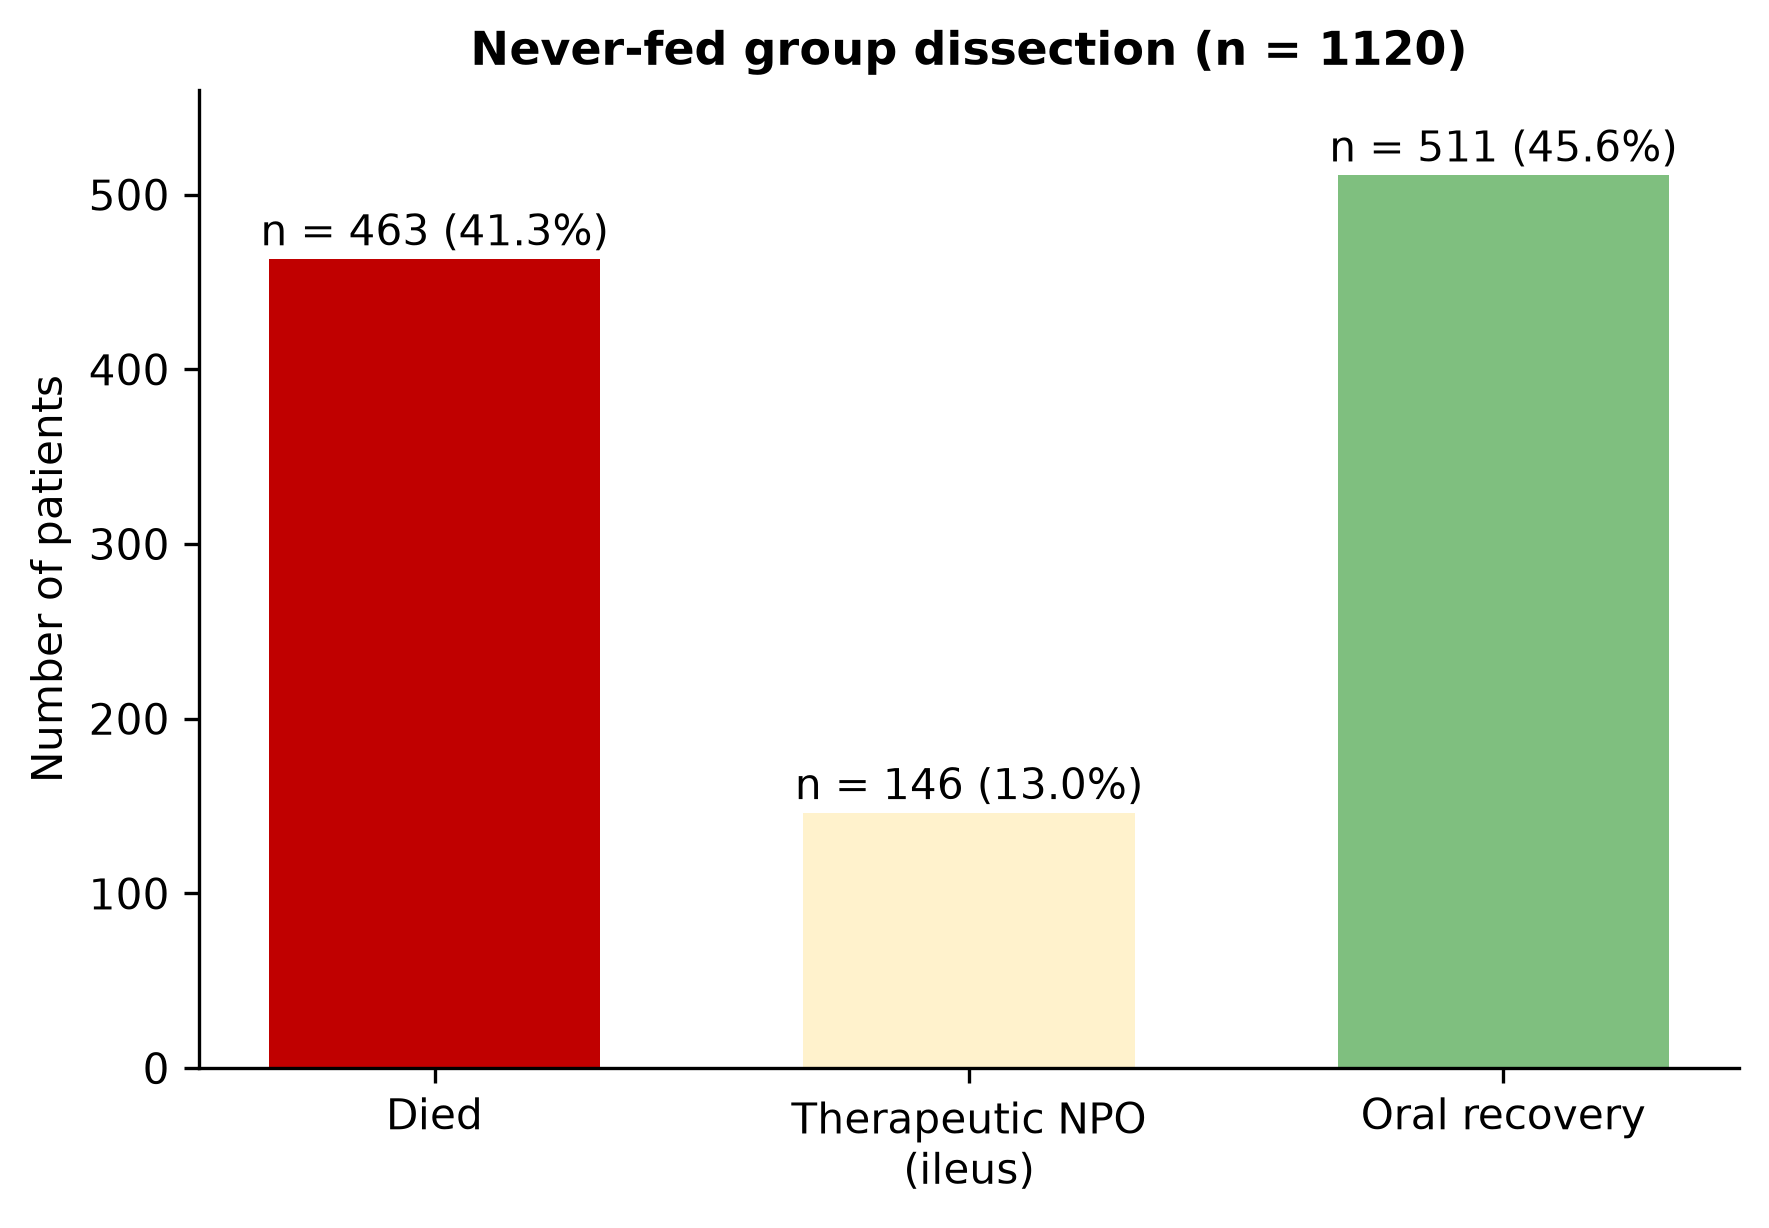
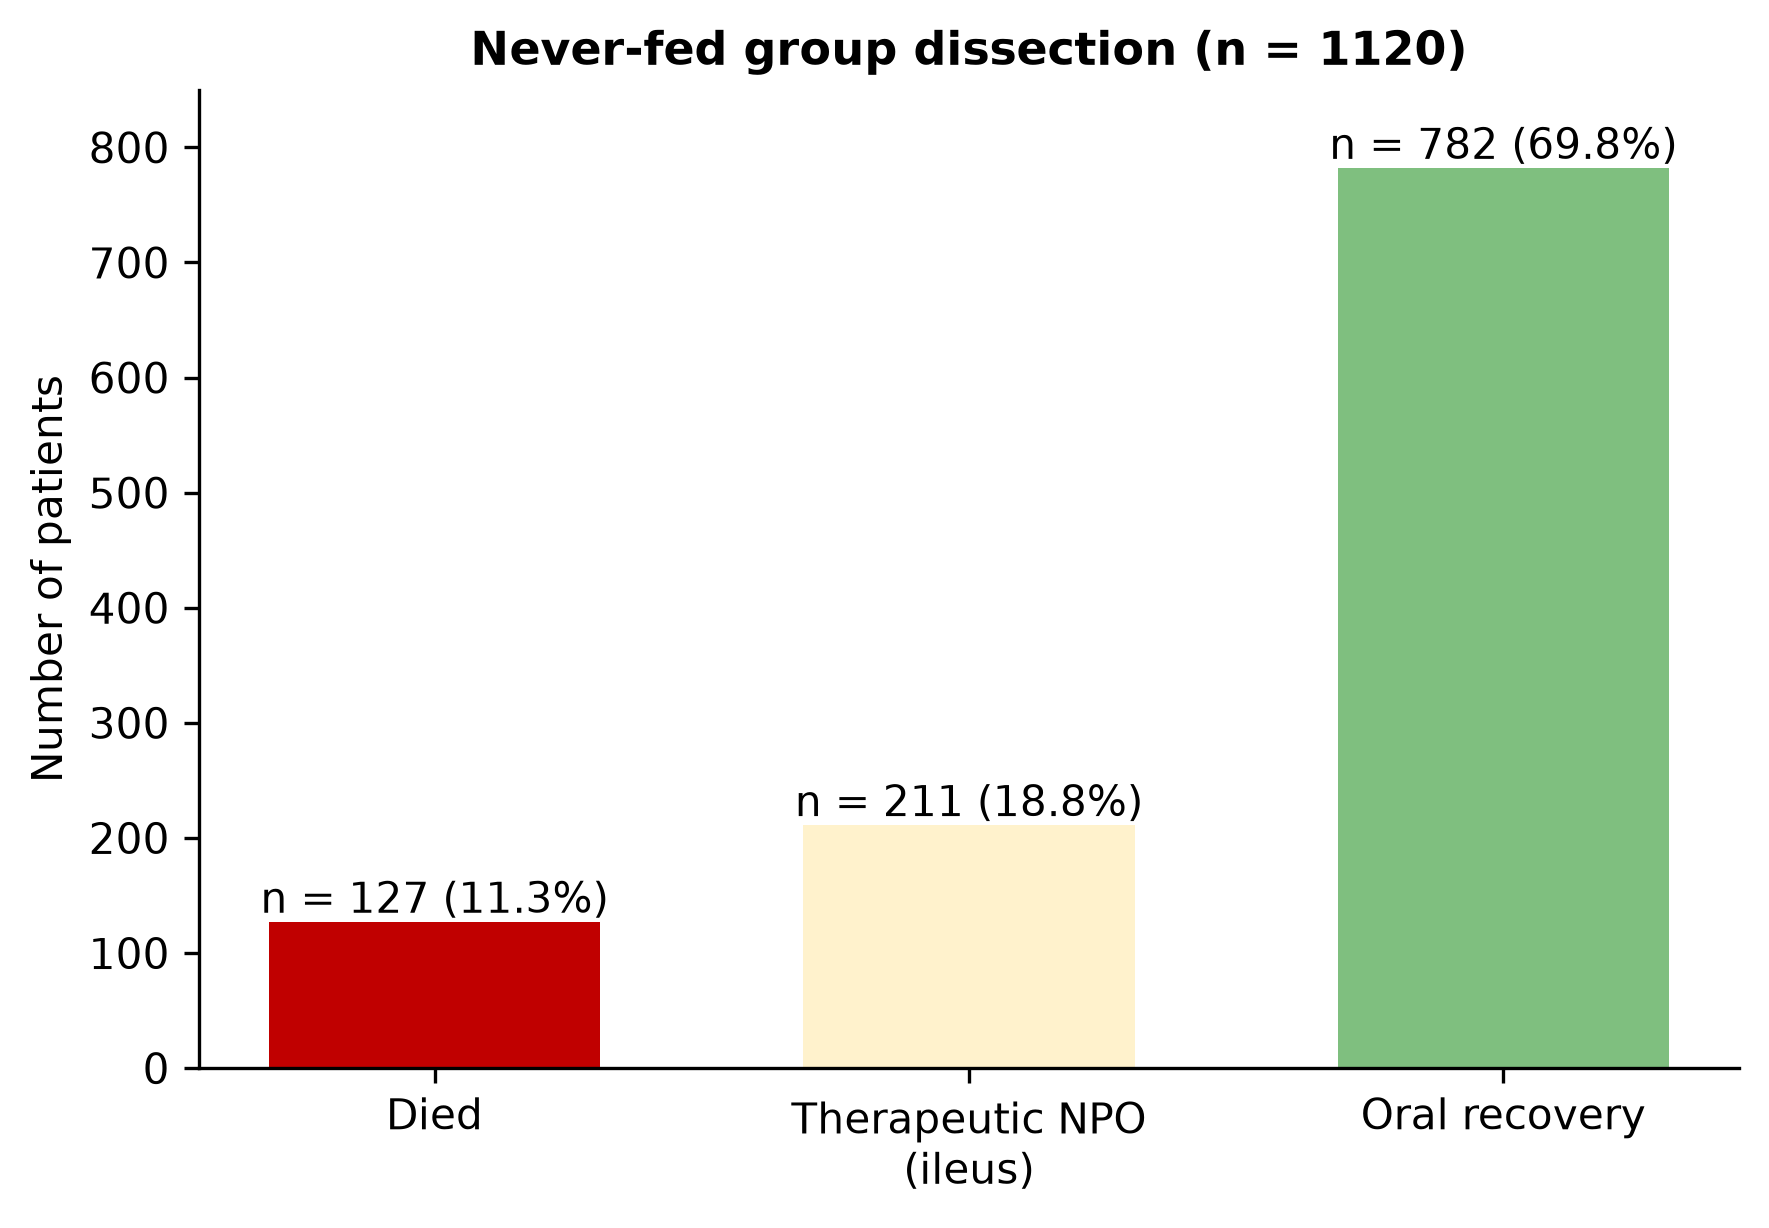
Fix never-fed dissection: use in-hospital death (not registry dod)
The never-fed 3-way dissection incorrectly counted any post-discharge
death (patients.dod) as 'died during hospitalization', producing an
impossible 463/146/511 split that contradicted the death outcome
(191/1466 in comparison B). Corrected to in-hospital death (deathtime):
127 died (11.3%) / 211 therapeutic NPO (18.8%) / 782 oral recovery
(69.8%). Causal estimates are unaffected (death outcome already used
in-hospital death, total 223).

diff --git a/analysis/12_make_docx.py b/analysis/12_make_docx.py
@@ -314,8 +314,8 @@ body("We identified first surgical-ICU stays (SICU, Trauma SICU, MICU/SICU, Neur
      "feeding window without immortal-time bias, and we additionally required survival to 48 h "
      "(patients whose hospital death time preceded the landmark were excluded). We excluded "
      "patients with a prior surgical-ICU stay. The never-fed subgroup was described in three "
-     "mutually exclusive categories — hospital death (admissions death time or the patient's "
-     "recorded date of death), therapeutic nil-per-os with ileus/obstruction (ICD-9 `560` / "
+     "mutually exclusive categories — in-hospital death (death time recorded in the indexed"
+     "hospital admission), therapeutic nil-per-os with ileus/obstruction (ICD-9 `560` /"
      "ICD-10 `K56`), and presumptive oral recovery (the remainder).")
 
 h2("2.4 Exposure")
@@ -411,8 +411,8 @@ body("Of 3246 eligible patients, 1658 (51.1%) survived and remained in the ICU a
      "formed the landmarked cohort (Figure 1). Within 48 h, 117 (3.6%) died and 1471 (45.3%) "
      "were discharged from the ICU alive. Among the landmarked cohort, 192 (11.6%) were EEN, 346 "
      "(20.9%) late EN, and 1120 (67.6%) never fed.")
-body("The never-fed group was markedly heterogeneous (Supplement): 463 (41.3%) died during "
-     "hospitalization, 146 (13.0%) had ileus/obstruction (therapeutic NPO), and 511 (45.6%) were "
+body("The never-fed group was markedly heterogeneous (Supplement): 127 (11.3%) died during"
+     "hospitalization, 211 (18.8%) had ileus/obstruction (therapeutic NPO), and 782 (69.8%) were"
      "classified as presumptive oral recovery.")
 
 h2("3.2 Baseline characteristics")
@@ -551,7 +551,7 @@ body("In this target-trial emulation of early versus late enteral nutrition afte
      "reflect differential short-course antibiotic use rather than a large true treatment "
      "effect. By contrast, the full-cohort policy comparison showed no infection benefit and an "
      "apparent increase in mortality, which we interpret as confounding rather than harm: the "
-     "never-fed subgroup is bimodal, containing both patients who recover quickly and resume "
+     "never-fed subgroup is heterogeneous, containing both patients who recover quickly and resume"
      "oral intake and patients who die or require therapeutic NPO, and the \"harm\" signal was "
      "abolished by restricting the analysis to the region of covariate overlap. A negative-control "
      "outcome (treated urinary-tract infection, which early feeding cannot plausibly affect) "

diff --git a/analysis/03_tables.py b/analysis/03_tables.py
@@ -2,7 +2,7 @@
 """
 03_tables.py — Table 1 (baseline by exposure group) + never-group 3-way dissection
 + flow-diagram numbers. Reads analysis/cohort.csv; joins patients/diagnoses_icd for
-the never dissection (dod + ileus). Outputs analysis/table1.md + table1.csv.
+the never dissection (in-hospital death + ileus). Outputs analysis/table1.md + table1.csv.
 """
 import os
 import numpy as np
@@ -110,13 +110,12 @@ WITH dx AS (
   LEFT JOIN read_csv_auto('{M}/hosp/diagnoses_icd.csv.gz') d ON d.hadm_id = n.hadm_id
   GROUP BY n.hadm_id, n.subject_id, n.hosp_death
 )
-SELECT dx.hadm_id, dx.hosp_death, dx.ileus,
-       (p.dod IS NOT NULL) AS dod_death
-FROM dx LEFT JOIN read_csv_auto('{M}/hosp/patients.csv.gz') p ON p.subject_id = dx.subject_id
+SELECT dx.hadm_id, dx.hosp_death, dx.ileus
+FROM dx
 """).df()
 con.close()
 
-nd["died"] = ((nd["hosp_death"] == 1) | nd["dod_death"]).astype(int)
+nd["died"] = nd["hosp_death"].astype(int)
 nd["subgroup"] = np.where(nd["died"] == 1, "died",
                  np.where(nd["ileus"] == 1, "ileus/obstruction (therapeutic NPO)",
                           "other (presumptive oral recovery)"))

diff --git a/analysis/11_reviewer_figures.py b/analysis/11_reviewer_figures.py
@@ -238,15 +238,15 @@ def supp1():
 # ---- Supp Fig S2: never-fed dissection ----
 def supp2():
     cats = ["Died", "Therapeutic NPO\n(ileus)", "Oral recovery"]
-    counts = [463, 146, 511]
-    pcts = [41.3, 13.0, 45.6]
+    counts = [127, 211, 782]
+    pcts = [11.3, 18.8, 69.8]
     fig, ax = plt.subplots(figsize=(6, 4.2))
     bars = ax.bar(cats, counts, color=[RED, "#fff2cc", "#7fbf7f"], width=0.62)
     for bar, n, p in zip(bars, counts, pcts):
         ax.text(bar.get_x() + bar.get_width() / 2, bar.get_height() + 8,
                 f"n = {n} ({p}%)", ha="center", fontsize=10)
     ax.set_ylabel("Number of patients")
-    ax.set_ylim(0, 560)
+    ax.set_ylim(0, 850)
     ax.spines[["top", "right"]].set_visible(False)
     ax.set_title("Never-fed group dissection (n = 1120)", fontsize=11, weight="bold")
     fig.tight_layout()

diff --git a/analysis/09_figures.py b/analysis/09_figures.py
@@ -56,7 +56,7 @@ def fig1():
     arrow(6.4, 4.55, 8.4, 3.55)
 
     box(5.7, 0.5, 4.0, 1.5,
-        "Never-fed dissection\ndied 463 (41.3%)\ntherapeutic NPO 146 (13.0%)\noral recovery 511 (45.6%)",
+        "Never-fed dissection\ndied 127 (11.3%)\ntherapeutic NPO 211 (18.8%)\noral recovery 782 (69.8%)",
         fc="#ffffff", fs=9)
     arrow(8.4, 2.55, 7.7, 2.05)
 

diff --git a/manuscript.md b/manuscript.md
@@ -66,7 +66,7 @@ MIMIC-IV v3.1 [8] is a single-center database of de-identified electronic health
 
 ### 2.3 Cohort
 
-We identified first surgical-ICU stays (SICU, Trauma SICU, MICU/SICU, Neuro SICU) with a major abdominal procedure (ICD-9-PCS / ICD-10-PCS codes for esophageal, gastric, intestinal, hepatobiliary, or pancreatic resection or reconstruction; Supplement) dated on or before the ICU admission day. We required ICU length of stay ≥48 h to define the 48-h feeding window without immortal-time bias, and we additionally required survival to 48 h (patients whose hospital death time preceded the landmark were excluded). We excluded patients with a prior surgical-ICU stay. The never-fed subgroup was described in three mutually exclusive categories — hospital death (admissions death time or the patient's recorded date of death), therapeutic nil-per-os with ileus/obstruction (ICD-9 `560` / ICD-10 `K56`), and presumptive oral recovery (the remainder).
+We identified first surgical-ICU stays (SICU, Trauma SICU, MICU/SICU, Neuro SICU) with a major abdominal procedure (ICD-9-PCS / ICD-10-PCS codes for esophageal, gastric, intestinal, hepatobiliary, or pancreatic resection or reconstruction; Supplement) dated on or before the ICU admission day. We required ICU length of stay ≥48 h to define the 48-h feeding window without immortal-time bias, and we additionally required survival to 48 h (patients whose hospital death time preceded the landmark were excluded). We excluded patients with a prior surgical-ICU stay. The never-fed subgroup was described in three mutually exclusive categories — in-hospital death (death time recorded in the indexed hospital admission), therapeutic nil-per-os with ileus/obstruction (ICD-9 `560` / ICD-10 `K56`), and presumptive oral recovery (the remainder).
 
 ### 2.4 Exposure
 
@@ -94,7 +94,7 @@ Because we specified a single primary endpoint across two co-primary comparisons
 
 Of 3246 eligible patients, 1658 (51.1%) survived and remained in the ICU at 48 h and formed the landmarked cohort (Figure 1). Within 48 h, 117 (3.6%) died and 1471 (45.3%) were discharged from the ICU alive. Among the landmarked cohort, 192 (11.6%) were EEN, 346 (20.9%) late EN, and 1120 (67.6%) never fed.
 
-The never-fed group was markedly heterogeneous (Supplement): 463 (41.3%) died during hospitalization, 146 (13.0%) had ileus/obstruction (therapeutic NPO), and 511 (45.6%) were classified as presumptive oral recovery.
+The never-fed group was markedly heterogeneous (Supplement): 127 (11.3%) died during hospitalization, 211 (18.8%) had ileus/obstruction (therapeutic NPO), and 782 (69.8%) were classified as presumptive oral recovery.
 
 ### 3.2 Baseline characteristics
 
@@ -136,7 +136,7 @@ To probe whether the feeding-exposure *structure* — rather than the infection 
 
 ## 4. Discussion
 
-In this target-trial emulation of early versus late enteral nutrition after major abdominal surgery, earlier feeding among patients who were ultimately fed was associated with a lower risk of antibiotic-treated infection (overlap-weighted OR 0.60, 95% CI 0.39–0.93; RR 0.73), an association that was stable across threshold, definition, intention-to-treat, and competing-risk sensitivity analyses and directionally consistent across four estimation methods, including the doubly-robust augmented-IPW estimator (RR 0.83, 0.63–1.09). The direction was reproduced in an earlier, largely non-overlapping era at the same center (MIMIC-III overlap-weighted OR 0.58, 0.42–0.82), supporting that the finding is not an artifact of a single data vintage. A supportive multicenter eICU-CRD analysis reproduced the feeding-exposure structure among documented-fed patients but could not reproduce the infection endpoint; death was null there as in MIMIC. Because the late-EN group had more contaminated/open-bowel procedures (exploratory laparotomy, stoma) that are associated with extended perioperative antibiotic prophylaxis, we tested a stricter definition requiring a minimum 3-day antibiotic course; this attenuated the comparison-A association (OR 0.75, 0.46–1.20) but did not reverse its direction, indicating that part of the protective estimate may reflect differential short-course antibiotic use rather than a large true treatment effect. By contrast, the full-cohort policy comparison showed no infection benefit and an apparent increase in mortality, which we interpret as confounding rather than harm: the never-fed subgroup is bimodal, containing both patients who recover quickly and resume oral intake and patients who die or require therapeutic NPO, and the "harm" signal was abolished by restricting the analysis to the region of covariate overlap. A negative-control outcome (treated urinary-tract infection, which early feeding cannot plausibly affect) reinforced both readings: in comparison A it was null after adjustment while the infection composite remained protective, and in comparison B it reproduced the same harm pattern as the primary outcome — corroborating that the policy comparison's apparent harm is confounding rather than effect.
+In this target-trial emulation of early versus late enteral nutrition after major abdominal surgery, earlier feeding among patients who were ultimately fed was associated with a lower risk of antibiotic-treated infection (overlap-weighted OR 0.60, 95% CI 0.39–0.93; RR 0.73), an association that was stable across threshold, definition, intention-to-treat, and competing-risk sensitivity analyses and directionally consistent across four estimation methods, including the doubly-robust augmented-IPW estimator (RR 0.83, 0.63–1.09). The direction was reproduced in an earlier, largely non-overlapping era at the same center (MIMIC-III overlap-weighted OR 0.58, 0.42–0.82), supporting that the finding is not an artifact of a single data vintage. A supportive multicenter eICU-CRD analysis reproduced the feeding-exposure structure among documented-fed patients but could not reproduce the infection endpoint; death was null there as in MIMIC. Because the late-EN group had more contaminated/open-bowel procedures (exploratory laparotomy, stoma) that are associated with extended perioperative antibiotic prophylaxis, we tested a stricter definition requiring a minimum 3-day antibiotic course; this attenuated the comparison-A association (OR 0.75, 0.46–1.20) but did not reverse its direction, indicating that part of the protective estimate may reflect differential short-course antibiotic use rather than a large true treatment effect. By contrast, the full-cohort policy comparison showed no infection benefit and an apparent increase in mortality, which we interpret as confounding rather than harm: the never-fed subgroup is heterogeneous, containing both patients who recover quickly and resume oral intake and patients who die or require therapeutic NPO, and the "harm" signal was abolished by restricting the analysis to the region of covariate overlap. A negative-control outcome (treated urinary-tract infection, which early feeding cannot plausibly affect) reinforced both readings: in comparison A it was null after adjustment while the infection composite remained protective, and in comparison B it reproduced the same harm pattern as the primary outcome — corroborating that the policy comparison's apparent harm is confounding rather than effect.
 
 Comparison A must be read precisely: it is not an intention-to-treat contrast but a principal-stratum (survivor-average-causal-effect) estimand that conditions on the post-baseline event of ultimately receiving enteral nutrition [16]. This conditioning can in principle induce selection bias, because a patient must survive long enough to be classified as late-EN, which would tend to make the late-EN arm appear healthier and thereby attenuate — not inflate — any early-feeding benefit. That the adjusted comparison still favors early feeding therefore argues against the protective association being a pure artifact of this selection. We retained comparison A alongside the policy estimand (comparison B) because the timing question — should a patient who will be fed be fed early? — is the question clinicians actually face, and it is precisely the question that a single policy comparison cannot isolate.
 

diff --git a/protocol.md b/protocol.md
@@ -190,7 +190,7 @@
 - **分析队列**：1658（EEN 192 / late 346 / never 1120）。§11 的 347/1123 为四舍五入，正式数为 192/346/1120。
 - **感染复合（landmarked）**：EEN 54 / late 171 / never 168；**treated BSI**：8 / 26 / 46（不变）。
 - **漏/再探查（收紧版，landmarked）**：定义改为「索引大手术后 3–14 天的探查性再剖腹 `541`/`0WJG`，剔除粘连松解 `545`」→ 全队列 84（2.6%），landmarked **53**（EEN 2 / late 30 / never 21）。§11 的 69 为可行性粗版（rn=2 定义），正式流水线用更严谨的「索引后 3–14d 探查」定义。
-- **never 拆解**：died 463（41.3%）/ 治疗性 NPO 146（13.0%）/ 经口恢复 511（45.6%）。
+- **never 拆解**：died 127（11.3%）/ 治疗性 NPO 211（18.8%）/ 经口恢复 782（69.8%）。
 - **112 个喂养 itemid** 已固化至 `analysis/feeding_itemids.csv`。
 
 **主估计（OW 主，双 co-primary × 感染复合；全 SOFA 主协变量集）：**
@@ -290,11 +290,11 @@
 - **Fig 6 阈值剂量-反应梯度**（`fig6_threshold_gradient.png`）：24/48/72h OW OR（对数刻度）点+误差棒；A 单调梯度 0.88→0.60→0.49，B 72h 衰减至 1.04——Hill 生物学梯度证据。
 - **Fig 7 estimand 示意图**（`fig7_estimand.png`）：A 限定 eventually-fed 子集（timing），B 用全 landmarked 队列（policy）。
 - **补充图 S1**（`supp1_feeding_time.png`）：首次喂养时间分布（EEN≤48h vs late>48h），标 24/48/72h。
-- **补充图 S2**（`supp2_never_fed.png`）：never 组拆解（死亡 463 / NPO 146 / 口服恢复 511）。
+- **补充图 S2**（`supp2_never_fed.png`）：never 组拆解（死亡 127 / NPO 211 / 口服恢复 782）。
 - **补充图 S3**（`supp3_composite_sites.png`）：复合终点按培养部位拆解（blood/abdo/resp/wound，A、B 各一）。实测呼吸培养主导（EEN 41/54 事件），blood 计数 8 = treated BSI 8，交叉验证正确。
 - **补充图 S4**（`supp4_infection_cif.png`）：感染复合终点的累积发生率曲线（Aalen–Johansen，出院/住院死亡为竞争风险，28 天）。28 天 CIF：EEN **28.1%** / late **49.4%** / never **15.0%**——与粗感染率（54/192、171/346、168/1120）一致，交叉验证通过。
 
-**同时修正旧图硬编码漂移**：`09_figures.py` 的 Fig 1/2 仍为 landmark-fix 前数值（Fig1: 1663/193/1124/467；Fig2: 阈值 0.86/0.45、缺 strict-treated 行等），已全部校正为当前 pipeline 数值（Fig1: 1658/192/1120/463；Fig2: 阈值 0.88/0.49、新增 §8.6b/c strict-treated 两行）。
+**同时修正旧图硬编码漂移**：`09_figures.py` 的 Fig 1/2 仍为 landmark-fix 前数值（Fig1: 1663/193/1124/467；Fig2: 阈值 0.86/0.45、缺 strict-treated 行等），已全部校正为当前 pipeline 数值（Fig1: 1658/192/1120/127；Fig2: 阈值 0.88/0.49、新增 §8.6b/c strict-treated 两行）。
 
 ### 12.8 因果硬核项：阴性对照 + 双重稳健 AIPW + 缺失数据（2026-10-18 跑出，`13_causal_hardening.py`）
 

diff --git a/analysis/README.md b/analysis/README.md
@@ -71,8 +71,8 @@ the supplement.
   — not a 48h artifact. B's "harm" is maximal at 24h and vanishes by 72h (death OW
   2.54 → 1.69 → 1.17; infection 1.76 → 1.34 → 1.04) — the signature of never-group
   confounding. See `threshold_sensitivity.md`.
-- **Never group** is bimodal: died 41.3% / therapeutic NPO 13.0% / oral recovery
-  45.6%.
+- **Never group** is heterogeneous: died 11.3% / therapeutic NPO 18.8% / oral
+  recovery 69.8%.
 - **Balance**: OW achieves exact covariate balance (max |SMD| 0.000); IPTW max
   |SMD| 0.087 (A) / 0.149 (B) — the latter motivates the PS-trimming sensitivity.
 - **Full-SOFA covariates** (GCS/MAP/FiO2/PaO2/BMI) are now the primary covariate set
@@ -125,7 +125,7 @@ the supplement.
   BSI 8), S4 (infection CIF: EEN 28.1% / late 49.4% / never 15.0%, matching the
   crude composite proportions). Both scripts were regenerated after correcting
   stale pre-landmark-fix numbers in Fig 1/2 (landmarked 1663→1658, EEN 193→192,
-  never 1124→1120, never-died 467→463; threshold 0.86/0.45→0.88/0.49).
+  never 1124→1120, never-died 467→127; threshold 0.86/0.45→0.88/0.49).
 - **Negative control + AIPW + missing data (`13_causal_hardening.py`, 2026-10-18)**: the
   treated-urinary-tract-infection negative control (same definition as the primary
   composite but urine-only) passes the falsification check — in comparison A its crude

diff --git a/analysis/table1.md b/analysis/table1.md
@@ -30,9 +30,9 @@ n: EEN 192 / late 346 / never 1120 (total 1658)
 
 | Subgroup | n | % |
 |---|---|---|
-| died | 463 | 41.3 |
-| ileus/obstruction (therapeutic NPO) | 146 | 13.0 |
-| other (presumptive oral recovery) | 511 | 45.6 |
+| died | 127 | 11.3 |
+| ileus/obstruction (therapeutic NPO) | 211 | 18.8 |
+| other (presumptive oral recovery) | 782 | 69.8 |
 
 
 ## Flow diagram (locked feasibility numbers)
